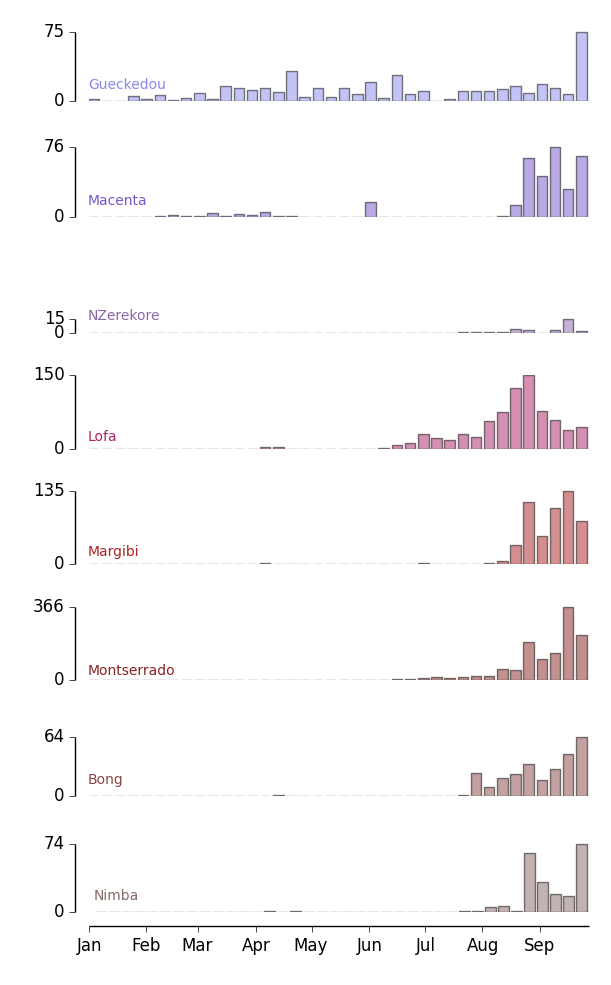
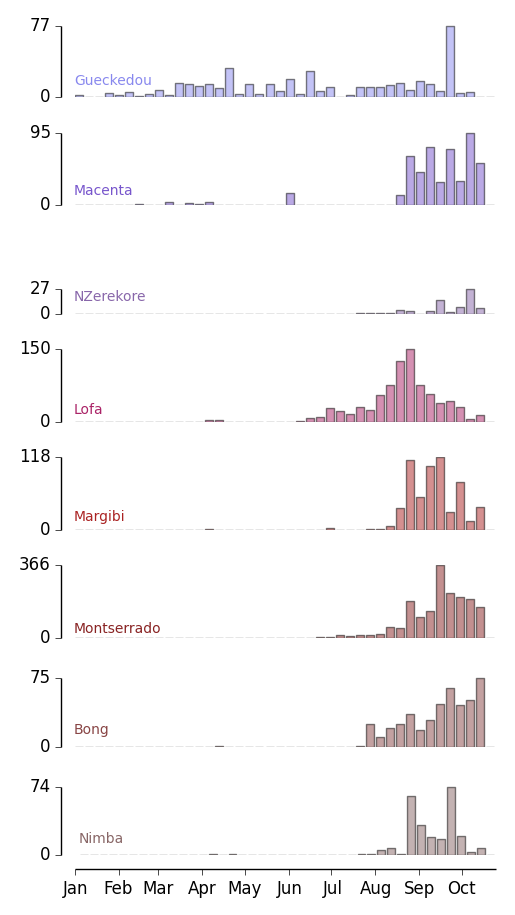
Update through October 18th
Updated Liberia (through 12th), Sierra Leone (through 18th), and Guinea
(through 8th).

diff --git a/scripts/plot_ebola_cases.py b/scripts/plot_ebola_cases.py
@@ -39,19 +39,19 @@ def get_ebola_counts_by_country(countries):
     return cases
 
 week_numbers = [0.5+w for w in range(52)]
-first_day_of_months = [0,31,59,90,120,151,181,212,243]#,273,304,334]
+first_day_of_months = [0,31,59,90,120,151,181,212,243,273]#,304,334]
 week_number_of_first_of_month=[d/7.0 for d in first_day_of_months]
 def plot_site(ax,country,district,color,labels=['left'], max_week_scale=50):
     plt.bar(week_numbers, cases[country][district], width=0.8, color=color, alpha=0.5)
     adjust_spines(ax,labels)
-    plt.xlim([0.5,40.5]) # weeks into early October
+    plt.xlim([0.5,42.5]) # weeks into early October
     plt.ylim([0,max(max_week_scale,max(cases[country][district])+1)]) # closer to equal scaling
     #plt.yticks(range(0,350,50))
     plt.yticks([min(cases[country][district]), max(cases[country][district])])
     if 'bottom' in labels:
-        plt.xticks(week_number_of_first_of_month)        
+        plt.xticks(week_number_of_first_of_month)
         #print(week_number_of_first_of_month)
-        ax.xaxis.set_ticklabels(['Jan','Feb','Mar','Apr','May','Jun','Jul','Aug','Sep'])#,'Oct','Nov','Dec'])
+        ax.xaxis.set_ticklabels(['Jan','Feb','Mar','Apr','May','Jun','Jul','Aug','Sep','Oct'])#,'Nov','Dec'])
     plt.text(0.5,10,district,fontsize=10,color=color,va='bottom',ha='left')
 
 cases = get_ebola_counts_by_country(['Guinee','Sierra_Leone','Liberia'])
@@ -84,12 +84,13 @@ def plot_group_of_districts(group):
         plot_site(ax,*site, max_week_scale=80)
     plt.tight_layout()    
 
-plt.figure('Ebola cases West', figsize=(5,9), facecolor='w')
-plot_group_of_districts(sitesW)
+if __name__=='__main__':
+    plt.figure('Ebola cases West', figsize=(5,9), facecolor='w')
+    plot_group_of_districts(sitesW)
 
-plt.figure('Ebola cases East', figsize=(5,9), facecolor='w')
-plot_group_of_districts(sitesE)
+    plt.figure('Ebola cases East', figsize=(5,9), facecolor='w')
+    plot_group_of_districts(sitesE)
 
-#with open('../model/disease/weekly_cases.json','w') as f: json.dump(cases,f)
+    #with open('../model/disease/weekly_cases.json','w') as f: json.dump(cases,f)
 
-plt.show()
+    plt.show()

diff --git a/scripts/plot_sierra_leone.py b/scripts/plot_sierra_leone.py
@@ -1,0 +1,27 @@
+from plot_ebola_cases import *
+import matplotlib.pyplot as plt
+
+sitesSierraLeone=[
+        ('Sierra_Leone','Bombali','#114411'),
+        ('Sierra_Leone','Port Loko','#226622'),
+        ('Sierra_Leone','Western (urban)','#229922'),
+        ('Sierra_Leone','Western (rural)','#229922'),
+        ('Sierra_Leone','Kenema','#99bb99'),
+        ('Sierra_Leone','Kailahun','#668866',['bottom','left'])
+        ]
+
+sitesMoreSierraLeone=[
+        ('Sierra_Leone','Kambia','#8888ee'),  
+        ('Sierra_Leone','Pujehun','#7755cc'),
+        ('Sierra_Leone','Moyamba','#8866aa'),
+        ('Sierra_Leone','Bo','#88dd88'),
+        ('Sierra_Leone','Bonthe','#aa2266',['bottom','left'])
+        ]
+
+plt.figure('Ebola cases Sierra Leone', figsize=(5,9), facecolor='w')
+plot_group_of_districts(sitesSierraLeone)
+
+plt.figure('More Ebola cases Sierra Leone', figsize=(5,5), facecolor='w')
+plot_group_of_districts(sitesMoreSierraLeone)
+
+plt.show()
